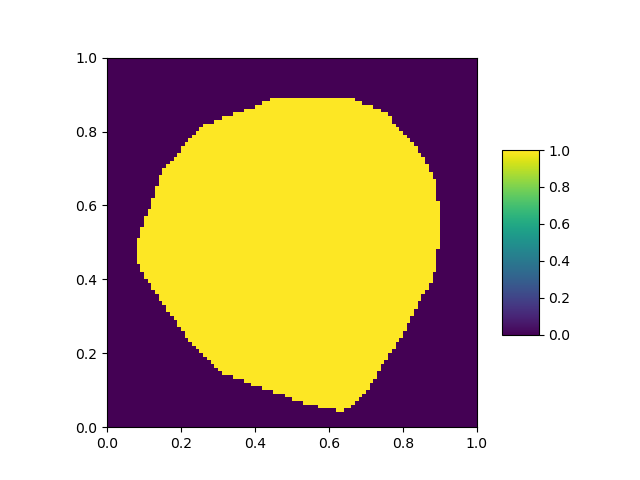
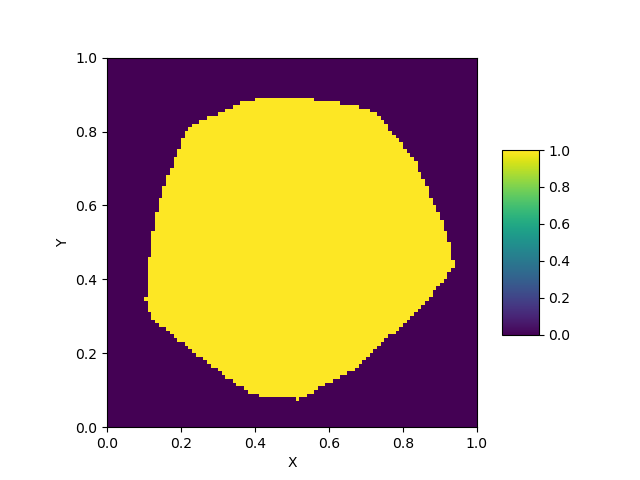
cleaner graphs part 2

diff --git a/Projet_2/test.py b/Projet_2/test.py
@@ -67,12 +67,18 @@ if print_curves:
     plt.subplot(3,1,1)
     plt.plot(mod_loss.numpy(), 'b')
     plt.title("MSE loss")
+    plt.xticks([])
+    plt.ylabel("loss")
     plt.subplot(3,1,2)
     plt.plot(errors.numpy(), 'r')
     plt.title("Percentage of classification errors for train")
+    plt.xticks([])
+    plt.ylabel("%")
     plt.subplot(3,1,3)
     plt.plot(errors_test.numpy(), 'g')
     plt.title("Percentage of classification errors for test")
+    plt.xlabel("Iterations")
+    plt.ylabel("%")
     plt.savefig("graph_{}data_{}iter.png".format(nbdata, nbiter)) # save the fig as png
     plt.show()
 
@@ -109,6 +115,8 @@ if print_separation:
 
     # Plot the result
     surf = ax.imshow(Z, extent = [min, max, min, max])
+    plt.xlabel("X")
+    plt.ylabel("Y")
 
     # Add a color bar which maps values to colors.
     fig.colorbar(surf, shrink=0.5, aspect=5)
